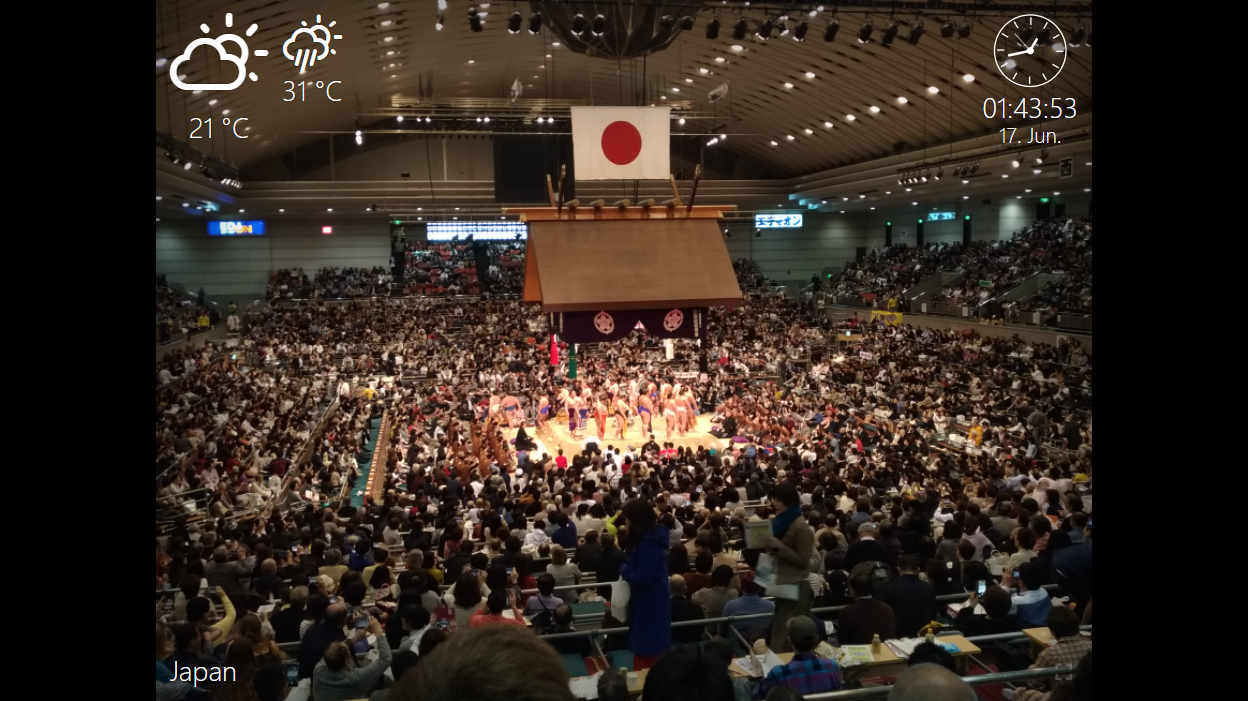
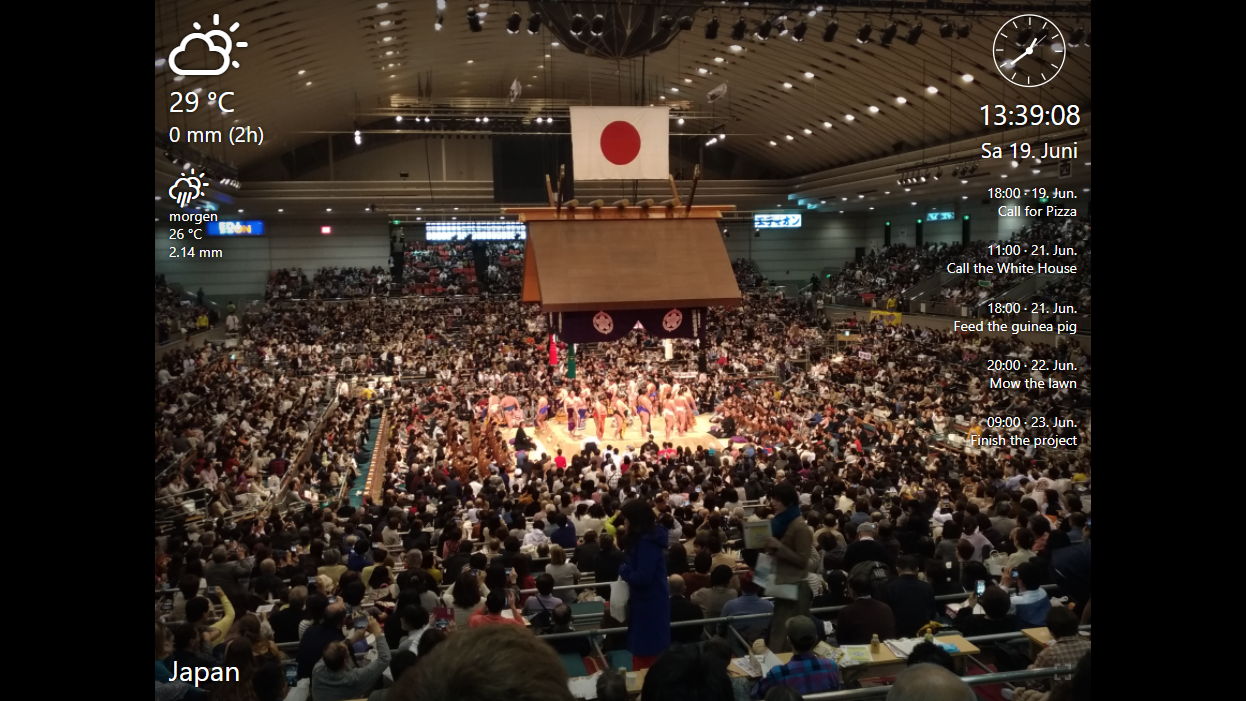
update documentation

diff --git a/README.md b/README.md
@@ -14,6 +14,8 @@ Features:
 
 - The current time and date is shown.
 
+- Google calendar events can be shown. To add a calendar run `npm run add-calendar` in the `server` directory.
+
 - The album title is shown at the bottom of the screen.
 
 - A button toggles the fullscreen browser mode.
